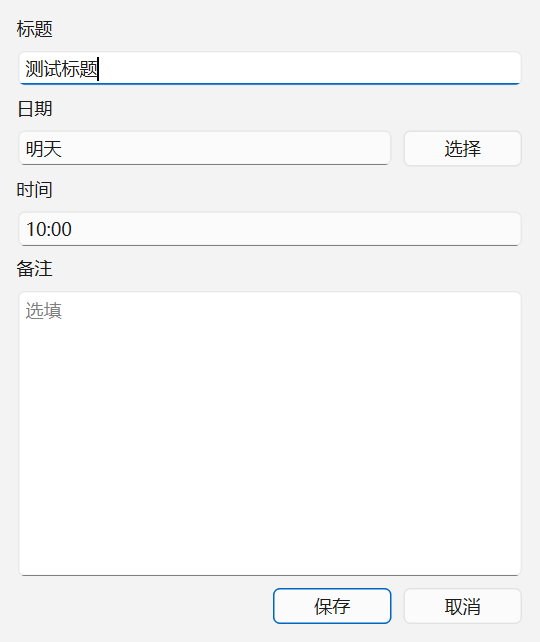
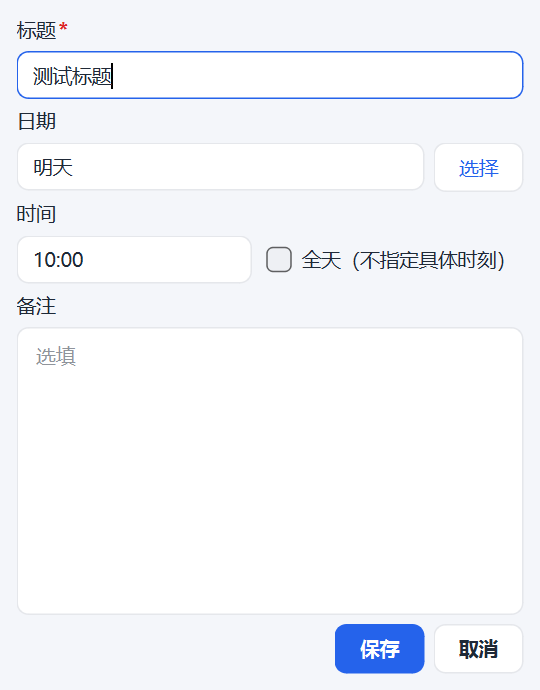
docs(ui): 重出截图并同步交互文档
- docs/screenshots：12 张 PNG 全部按新界面重拍（真窗口、浅色、QSettings 压回默认），
  新增表单红星、列表层级、空状态两种文案、行菜单与日历限高后的版面
- docs/figures/ui-interaction.md：新增 5.7 节「收尾的 11 条」，逐条写清做法与取舍；
  修正 ③ 区的行高/列宽/列伸缩方式；撤销语义补 5 秒窗口；V-03 改成"表单不关闭、
  错误就地显示"
- docs/screenshots/README.md、README.md、docs/development.md：断言数与测试总数
  同步（43 → 44 项、422 → 431 条）

diff --git a/docs/screenshots/README.md b/docs/screenshots/README.md
@@ -24,8 +24,8 @@ uv sync                 # 首次需要下载 PySide6（约 650 MB，已在缓存
 uv run python scripts/shoot_ui.py
 ```
 
-一条命令产出本目录全部 PNG，并把 V 清单里可机器判定的部分断言掉（当前 **38 项全过**：
-32 项界面回归跑在内存替身上，6 项真服务场景跑真连接 + 真 SQLite，见第 4 节）。
+一条命令产出本目录全部 PNG，并把 V 清单里可机器判定的部分断言掉（当前 **44 项全过**：
+38 项界面回归跑在内存替身上，6 项真服务场景跑真连接 + 真 SQLite，见第 4 节）。
 脚本会重新打开真实窗口逐屏截取，因此**截图与代码始终同步**——不会出现"文档里的图是上一版界面"的情况。
 
 **必须在有显示服务的桌面会话里跑。** `QT_QPA_PLATFORM=offscreen` 下 `QFontDatabase` 返回 0 个字体，
@@ -39,9 +39,9 @@ uv run python scripts/shoot_ui.py
 
 | 文件 | 对应验收项 | 前置数据与操作 | 预期结果（＝实际结果） |
 | --- | --- | --- | --- |
-| `main-window.png` | V-01、V-02、V-03 | 启动程序，默认选中今天 2026-10-15，该日有 3 条示例日程 | 六按钮在顶部工具栏，左侧月历周一起始，右侧列表 3 行，状态栏显示条数 |
+| `main-window.png` | V-01、V-02、V-03 | 启动程序，默认选中今天 2026-10-15，该日有 3 条示例日程 | 七个入口在顶部工具栏（新增/查看/修改/删除/复制/刷新/退出 + 主题切换），左侧月历周一起始，右侧列表 3 行（时间 / 标题 / 备注三列——单日视图不重复显示同一个日期），状态栏左侧条数、右侧 `HH:MM 更新` |
 | `main-window-selected.png` | V-05、V-08 | 在上图基础上点选列表第一行 | 选中行高亮，底部出现"已选中：08:30 晨读英语"，工具栏不再置灰相关按钮 |
-| `empty-state.png` | V-06 | 切到 2026-10-20（无日程） | 列表区给出空状态提示"这一天还没有日程。点「新增」记一条。"，标题显示"共 0 条"，而不是空白表格 |
+| `empty-state.png` | V-06 | 切到 2026-10-20（无日程） | 表格整块换成空状态：标题「这一天还没有日程」+ 一句说明 + 行动按钮「新增这一天」；标题显示"共 0 条" |
 | `form-dialog.png` | V-02、V-04、V-15、V-16 | 点「新增」打开表单；在日期框里手填 `明天` 后点保存 | 表单四个字段齐全，日期框是普通文本框（非强校验日期控件）；`明天` 能被正常输入且不弹"格式不正确"，判定留给后端 |
 | `calendar-leap-2028-02.png` | V-07 | 主窗口翻到 2028 年 2 月 | 闰月 29 天，月末格位正确，跨月前后缀灰显由控件保证 |
 | `delete-confirm.png` | V-11、V-12 | 选中一行后点「删除」 | 弹出确认框；点「取消」数据一字节不改，点「确定」该条才消失 |
@@ -91,10 +91,14 @@ uv run python scripts/shoot_ui.py
 | 断言 | 结果 |
 | --- | --- |
 | V-01 启动显示当天日程 | 表格行数 = 3 |
-| V-01 顶部工具栏六个按钮 | `create / view / edit / delete / refresh / quit` |
+| V-01 顶部工具栏七个入口 | `create / view / edit / delete / duplicate / refresh / quit` |
+| V-01 「新增」是工具栏上唯一的主色入口 | `PrimaryAction` |
+| V-01 单日视图收起重复的日期列 | `isColumnHidden(0) = True` |
+| V-01 状态栏右侧写明数据时间 | `21:49 更新` |
 | V-05 选中行后同步选中文案 | `已选中：08:30 晨读英语` |
 | 刷新按钮更新状态栏 | `已刷新：共 3 条` |
-| V-06 空日期显示空状态而不是白板 | `这一天还没有日程。点「新增」记一条。` |
+| V-06 空日期显示空状态而不是白板 | 当前页是空状态，标题 `这一天还没有日程` |
+| V-06 空状态给出可点的下一步 | 按钮 `新增这一天` |
 | V-06 空状态显示共 0 条 | `2026-10-20 周二　共 0 条` |
 | V-07 2028-02-29 是可构造的日期 | 可实例化 |
 | V-16 无法识别的日期原样离开表单（界面不拦） | `date_text='明天'` |
@@ -131,6 +135,7 @@ uv run python scripts/shoot_ui.py
 
 | 断言 | 结果 |
 | --- | --- |
+| V-10 未选中时「删除」在界面上不可点 | `delete.isEnabled()=False` |
 | V-10 未选中点删除时服务调用次数为 0 | `[]` |
 | V-10 数据不变 | 3 |
 | V-11 确认框点取消后服务调用次数仍为 0 | `[]` |
@@ -166,7 +171,7 @@ uv run python scripts/shoot_ui.py
 
 **诚实边界（没有假装已验）**：
 
-- 32 项界面回归跑在**内存替身**上，验的是交互规则（不拦输入、失败保留、删除守卫），天然验不了持久化；
+- 38 项界面回归跑在**内存替身**上，验的是交互规则（不拦输入、失败保留、删除守卫），天然验不了持久化；
 - 6 项真服务场景走真连接 + 真 SQLite，V-14 的真身在此——但只覆盖"经服务落盘 + 重连可读"，
   不覆盖真实用户库的迁移与损坏场景（那属于存储层单测与集成测试的职责）；
 - 截图能证明"这一屏看起来对"，不能证明"换一台机器 DPI 缩放后不错位"——Windows 真机的字体、
@@ -176,7 +181,7 @@ uv run python scripts/shoot_ui.py
 
 它是**开发替身**，不是真正的存储层。默认入口早已改接真 SQLite（见 README「当前状态」），
 替身现在的作用是给**界面回归**提供确定、无外部依赖的运行环境：种子固定、可重复、不进磁盘，
-所以第 4 节前 32 项断言跑在它上面。它实现了与真服务完全相同的 `ScheduleServicePort` 协议，
+所以第 4 节前 38 项断言跑在它上面。它实现了与真服务完全相同的 `ScheduleServicePort` 协议，
 `tests/contract/test_repository_contract.py` 对内存实现与真 SQLite 跑同一套仓储契约用例，两者行为不一致会直接红。
 
 它的 Bug 不算业务的 Bug，但它的**行为约定**（空标题怎么办、删不存在的记录怎么办）已经由
